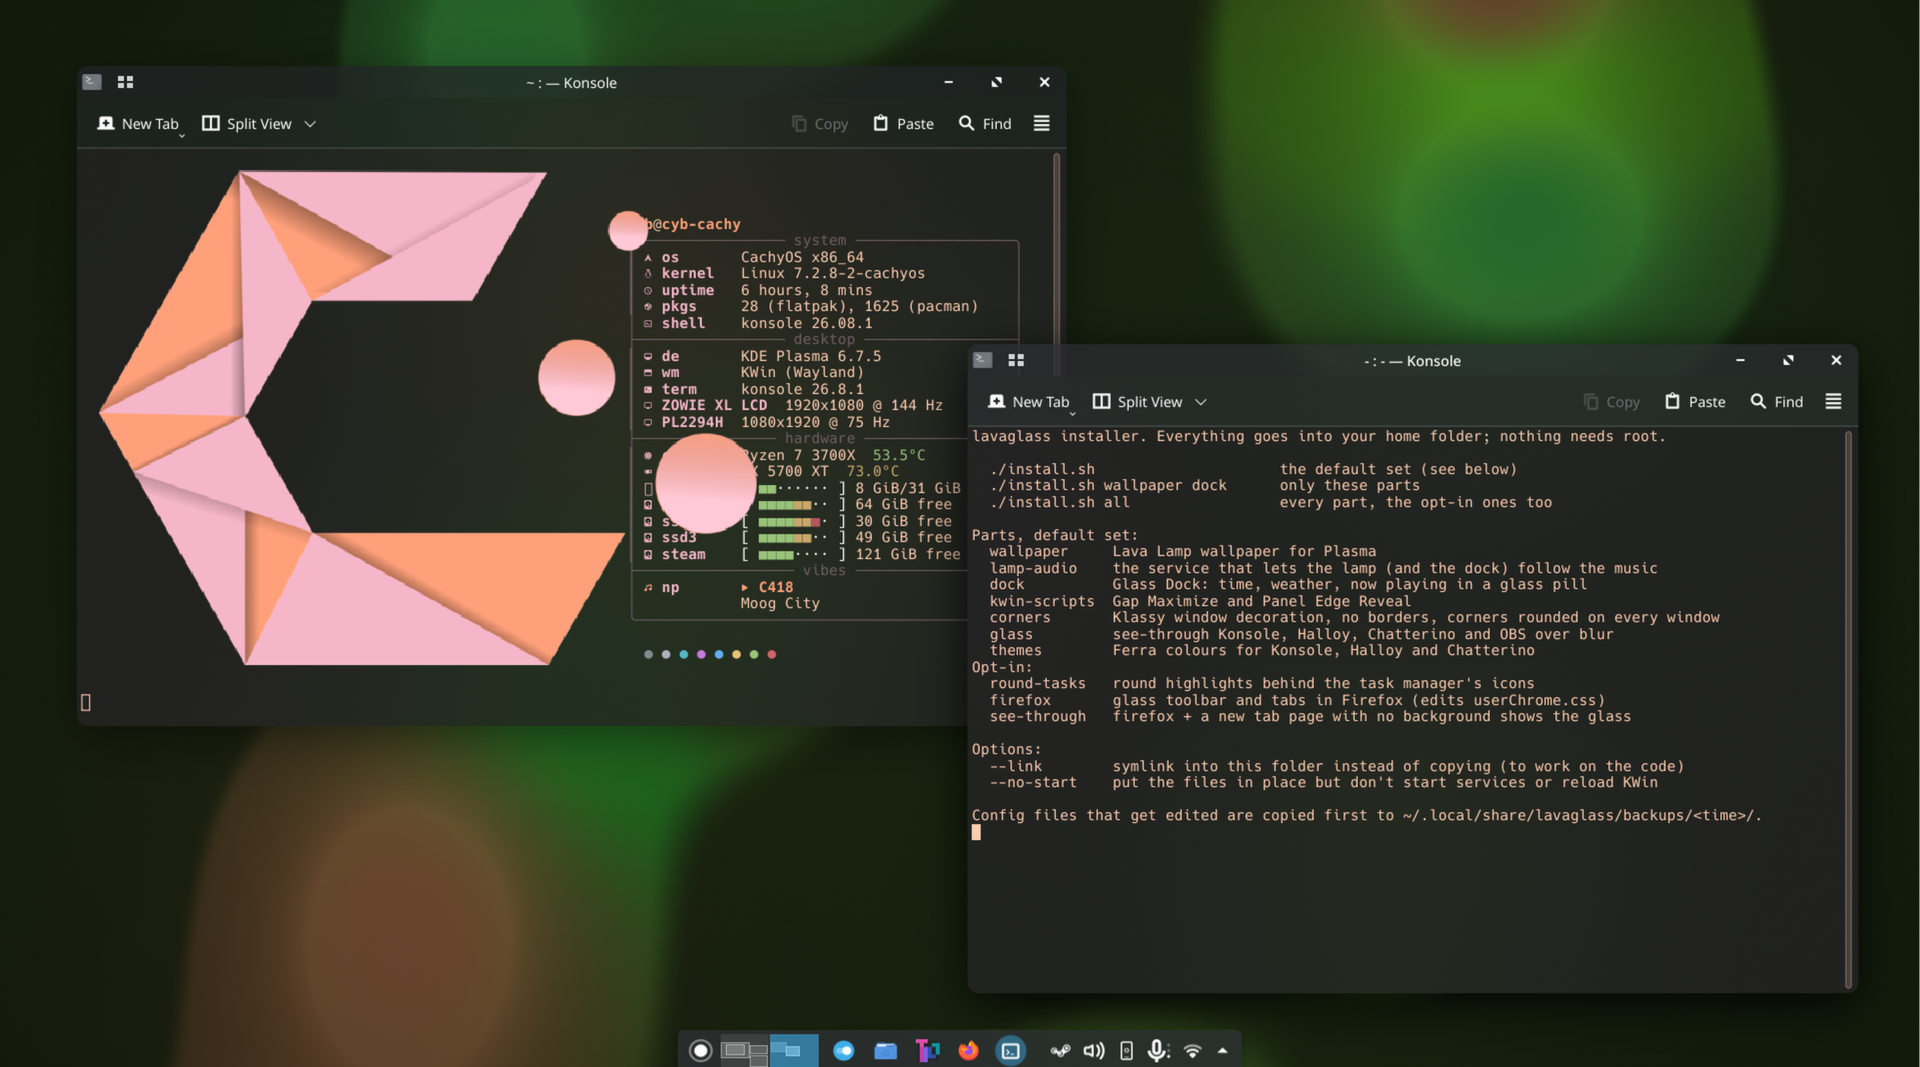
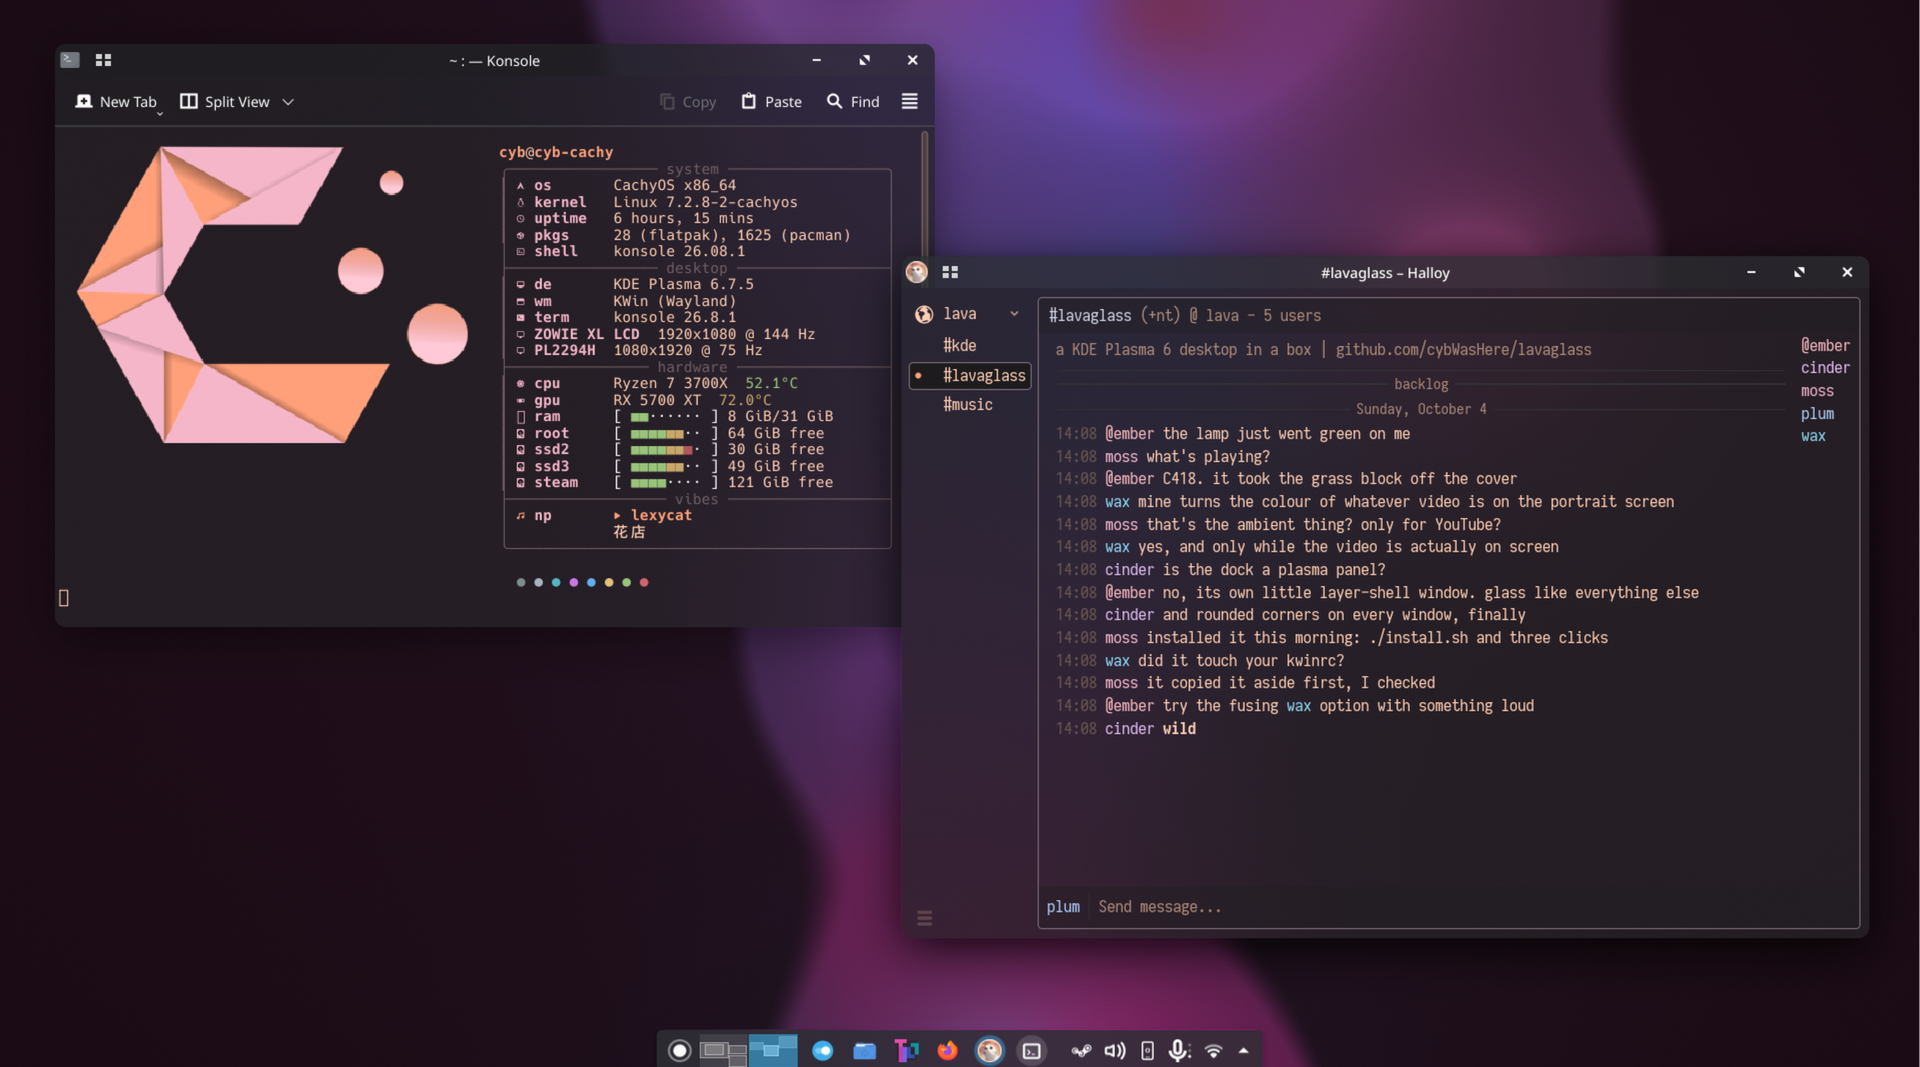
Installer with a checklist and to-do list, borderless Glass Dock with a shadow, new screenshots

diff --git a/glass-dock/Dock.qml b/glass-dock/Dock.qml
@@ -18,6 +18,7 @@ Window {
     readonly property int gap: 10          // above the pill, and between it and the windows below
     readonly property int tilePadding: 20  // KWin's own gap around tiles on this screen (kwinrc [Tiling] padding)
     readonly property int panelGap: 6      // between the pill and an open panel
+    readonly property int pad: 28          // room around the glass, inside the surface, for its shadow
     readonly property color text: "#fcfcfc"
     readonly property color muted: "#a1a9b1"
     readonly property color dim: "#6c737a"
@@ -48,8 +49,8 @@ Window {
     readonly property real overhang: Math.max(spill(dateSec, calBody.implicitWidth + 28),
                                               wxSec.visible ? spill(wxSec, weekBody.implicitWidth + 28) : 0)
 
-    width: pillW + 2 * overhang
-    height: pillHeight + (open ? panelGap + panel.height : 0)
+    width: pillW + 2 * (overhang + pad)
+    height: gap + pillHeight + (open ? panelGap + panel.height : 0) + pad
     color: "transparent"
     flags: Qt.FramelessWindowHint
     visible: true
@@ -58,18 +59,18 @@ Window {
     LayerShell.Window.scope: "glass-dock"
     LayerShell.Window.layer: LayerShell.Window.LayerTop
     LayerShell.Window.anchors: LayerShell.Window.AnchorTop
-    LayerShell.Window.margins.top: gap
-    // KWin adds the margin to the zone and its tile padding below it
-    LayerShell.Window.exclusionZone: Math.max(0, pillHeight + gap - tilePadding)
+    // The gap above the pill is inside the surface (the shadow needs the room), and the surface
+    // hangs lower than its zone for the same reason. KWin adds its tile padding below the zone.
+    LayerShell.Window.exclusionZone: Math.max(0, pillHeight + 2 * gap - tilePadding)
     LayerShell.Window.keyboardInteractivity: LayerShell.Window.KeyboardInteractivityNone
 
     function reshape() {
-        const rects = [Qt.rect(pill.x, 0, pillW, pillHeight)];
+        const rects = [Qt.rect(pill.x, pill.y, pillW, pillHeight)];
         let bridge = Qt.rect(0, 0, 0, 0);
         if (open) {
             rects.push(Qt.rect(panel.x, panel.y, panel.width, panel.height));
             const l = Math.max(pill.x, panel.x), r = Math.min(pill.x + pillW, panel.x + panel.width);
-            bridge = Qt.rect(l, pillHeight, r - l, panelGap);
+            bridge = Qt.rect(l, pill.y + pillHeight, r - l, panelGap);
         }
         Glass.shape(win, rects, 10, bridge);
     }
@@ -198,11 +199,39 @@ Window {
         MultiEffect { anchors.fill: parent; source: img; maskEnabled: true; maskSource: mask }
     }
 
+    // The soft drop shadow windows get from their decoration, for a piece of glass. It is cut out
+    // under the glass itself: seen through it, the shadow would only darken the blur.
+    component Shade: Item {
+        id: shade
+        required property Item of
+        readonly property int reach: win.pad
+        x: of.x - reach; y: of.y - reach
+        width: of.width + 2 * reach; height: of.height + 2 * reach
+        visible: of.visible
+        Item {
+            id: cast
+            anchors.fill: parent; visible: false; layer.enabled: true
+            RectangularShadow {
+                x: shade.reach; y: shade.reach + 4
+                width: shade.of.width; height: shade.of.height
+                radius: 10; blur: 22; color: Qt.rgba(0, 0, 0, 0.6)
+            }
+        }
+        Item {
+            id: hole
+            anchors.fill: parent; visible: false; layer.enabled: true
+            Rectangle { x: shade.reach; y: shade.reach; width: shade.of.width; height: shade.of.height; radius: 10 }
+        }
+        MultiEffect { anchors.fill: parent; source: cast; maskEnabled: true; maskSource: hole; maskInverted: true }
+    }
+    Shade { of: pill }
+    Shade { of: panel }
+
     Item {
         id: pill
-        x: win.overhang
+        x: win.pad + win.overhang; y: win.gap
         width: win.pillW; height: win.pillHeight
-        Rectangle { anchors.fill: parent; radius: 10; color: win.glass; border { width: 1; color: Qt.rgba(1, 1, 1, 0.07) } }
+        Rectangle { anchors.fill: parent; radius: 10; color: win.glass }
 
         Row {
             id: row
@@ -302,13 +331,13 @@ Window {
         // both panels are loaded from the start, so the window knows how wide either will be
         readonly property Item body: win.open === "date" ? calBody : win.open === "wx" ? weekBody : null
         visible: body !== null
-        x: win.overhang + win.panelX
-        y: win.pillHeight + win.panelGap
+        x: win.pad + win.overhang + win.panelX
+        y: win.gap + win.pillHeight + win.panelGap
         width: body ? body.implicitWidth + 28 : 0
         height: body ? body.implicitHeight + 26 : 0
         onXChanged: Qt.callLater(win.reshape)
         onWidthChanged: Qt.callLater(win.reshape)
-        radius: 10; color: win.glass; border { width: 1; color: Qt.rgba(1, 1, 1, 0.07) }
+        radius: 10; color: win.glass
         HoverHandler { onHoveredChanged: hovered ? closeTimer.stop() : closeTimer.restart() }
         Loader { id: calBody; anchors.centerIn: parent; visible: win.open === "date"; sourceComponent: calendar }
         Loader { id: weekBody; anchors.centerIn: parent; visible: win.open === "wx"; active: win.weather !== null; sourceComponent: week }

diff --git a/README.md b/README.md
@@ -11,7 +11,7 @@ One installer. No root, everything in your home folder, every part optional.
 [![No root](https://img.shields.io/badge/install-no%20root%2C%20backs%20up%20first-f6b6c9)](#quick-start)
 [![MIT](https://img.shields.io/badge/license-MIT-3da639)](LICENSE)
 
-<img src="screenshots/desktop.png" alt="lavaglass: two glass Konsole windows with rounded corners over the lava lamp wallpaper, coloured by the album cover of the song playing">
+<img src="screenshots/desktop.png" alt="lavaglass: Konsole and Halloy as glass windows with rounded corners over the lava lamp wallpaper, coloured by the album cover of the song playing">
 
 <img src="screenshots/glass-dock.png" width="480" alt="Glass Dock: time, date, weather, the track playing and its equaliser">
 
@@ -49,8 +49,10 @@ cd lavaglass
 ./install.sh
 ```
 
-That installs the default set. It tells you at the end what it skipped and what is left for you
-to click. Then:
+<img src="screenshots/installer.png" width="640" alt="The installer: a checklist of the parts it installed, then a numbered list of what is left for you">
+
+That installs the default set, ticks off each part as it goes, and ends with what is left for you
+to click:
 
 1. **Pick the wallpaper.** Right-click the desktop, *Desktop and Wallpaper*, wallpaper type
    *Lava Lamp*.
